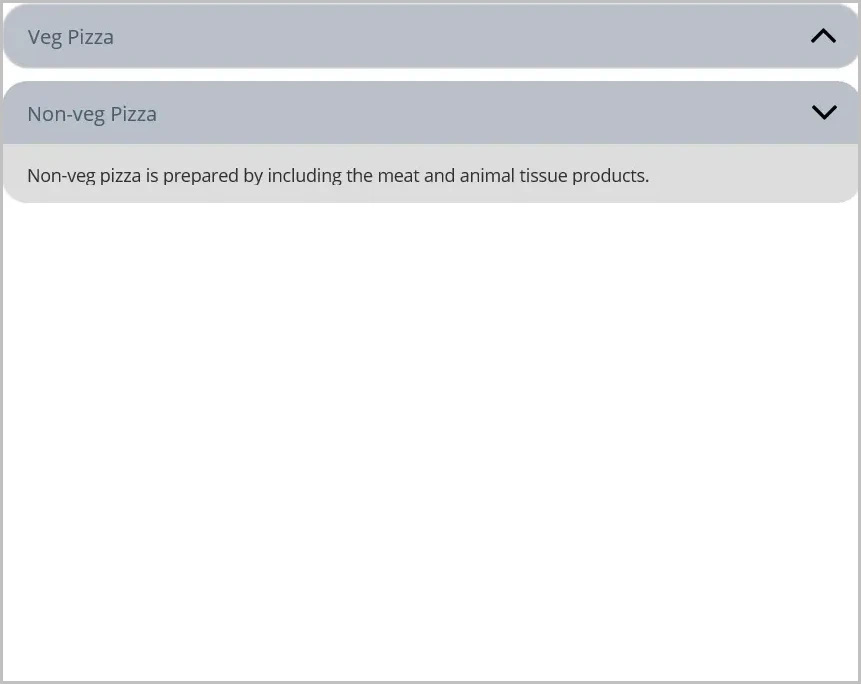
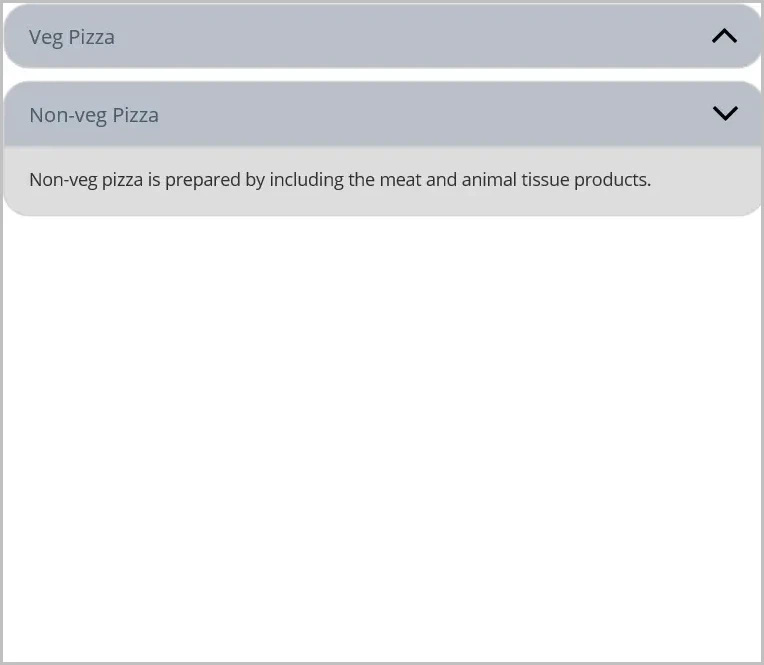
Added Review Changes

diff --git a/SfExpander_Sample/MainPage.xaml b/SfExpander_Sample/MainPage.xaml
@@ -34,7 +34,7 @@
                             <Border.StrokeShape>
                                 <RoundRectangle CornerRadius="0,0,20,20"/>
                             </Border.StrokeShape>
-                            <Grid Padding="20,15,20,15">
+                            <Grid Padding="20,15,20,20">
                                 <Label Text="Veg pizza is prepared with the items that meet vegetarian standards by not including any meat or animal tissue products." 
                                        TextColor="#303030" VerticalOptions="Center" FontSize="14" LineBreakMode="WordWrap"/>
                             </Grid>
@@ -43,8 +43,7 @@
                 </syncfusion:SfExpander>
                 <syncfusion:SfExpander x:Name="expander2" HeaderIconPosition="None" IsExpanded="true">
                     <syncfusion:SfExpander.Header>
-                        <Border StrokeThickness="0"
-                                BackgroundColor="#bbbfca">
+                        <Border BackgroundColor="#bbbfca">
                             <Border.StrokeShape>
                                 <RoundRectangle CornerRadius="{Binding IsExpanded, Source={x:Reference expander2}, Converter={StaticResource CornerRadiusConverter}}"/>
                             </Border.StrokeShape>
@@ -58,12 +57,11 @@
                         </Border>
                     </syncfusion:SfExpander.Header>
                     <syncfusion:SfExpander.Content>
-                        <Border StrokeThickness="0"
-                                BackgroundColor="#dddddd">
+                        <Border BackgroundColor="#dddddd">
                             <Border.StrokeShape>
                                 <RoundRectangle CornerRadius="0,0,20,20"/>
                             </Border.StrokeShape>
-                            <Grid Padding="20,15,20,15">
+                            <Grid Padding="20,15,20,20">
                                 <Label Text="Non-veg pizza is prepared by including the meat and animal tissue products." 
                                        TextColor="#303030" VerticalOptions="Center"
                                        FontSize="14" LineBreakMode="WordWrap"/>

diff --git a/README.md b/README.md
@@ -3,7 +3,7 @@ This article demonstrates how to add rounded corners for [.NET MAUI SfExpander](
 
 **XAML:**
 
-Add the Border control to the SfExpander.Header or SfExpander.Content and set the StrokeShape with a RoundRectangle to apply the corner radius. You can customise the corner radius based on the expanded state by binding the IsExpanded property and the converter.
+Add the Border control to the SfExpander.Header or SfExpander.Content and set the StrokeShape with a RoundRectangle to apply the corner radius. You can customize the corner radius based on the expanded state by binding the IsExpanded property and the converter.
 
  ```xml
     <ContentPage.Content>
@@ -40,8 +40,7 @@ Add the Border control to the SfExpander.Header or SfExpander.Content and set th
                 
                 <syncfusion:SfExpander x:Name="expander2" HeaderIconPosition="None" IsExpanded="true">
                     <syncfusion:SfExpander.Header>
-                        <Border StrokeThickness="0"
-                                BackgroundColor="#bbbfca">
+                        <Border BackgroundColor="#bbbfca">
                             <Border.StrokeShape>
                                 <RoundRectangle CornerRadius="{Binding IsExpanded, Source={x:Reference expander2}, Converter={StaticResource CornerRadiusConverter}}"/>
                             </Border.StrokeShape>
@@ -55,8 +54,7 @@ Add the Border control to the SfExpander.Header or SfExpander.Content and set th
                         </Border>
                     </syncfusion:SfExpander.Header>
                     <syncfusion:SfExpander.Content>
-                        <Border StrokeThickness="0"
-                                BackgroundColor="#dddddd">
+                        <Border BackgroundColor="#dddddd">
                             <Border.StrokeShape>
                                 <RoundRectangle CornerRadius="0,0,20,20"/>
                             </Border.StrokeShape>
